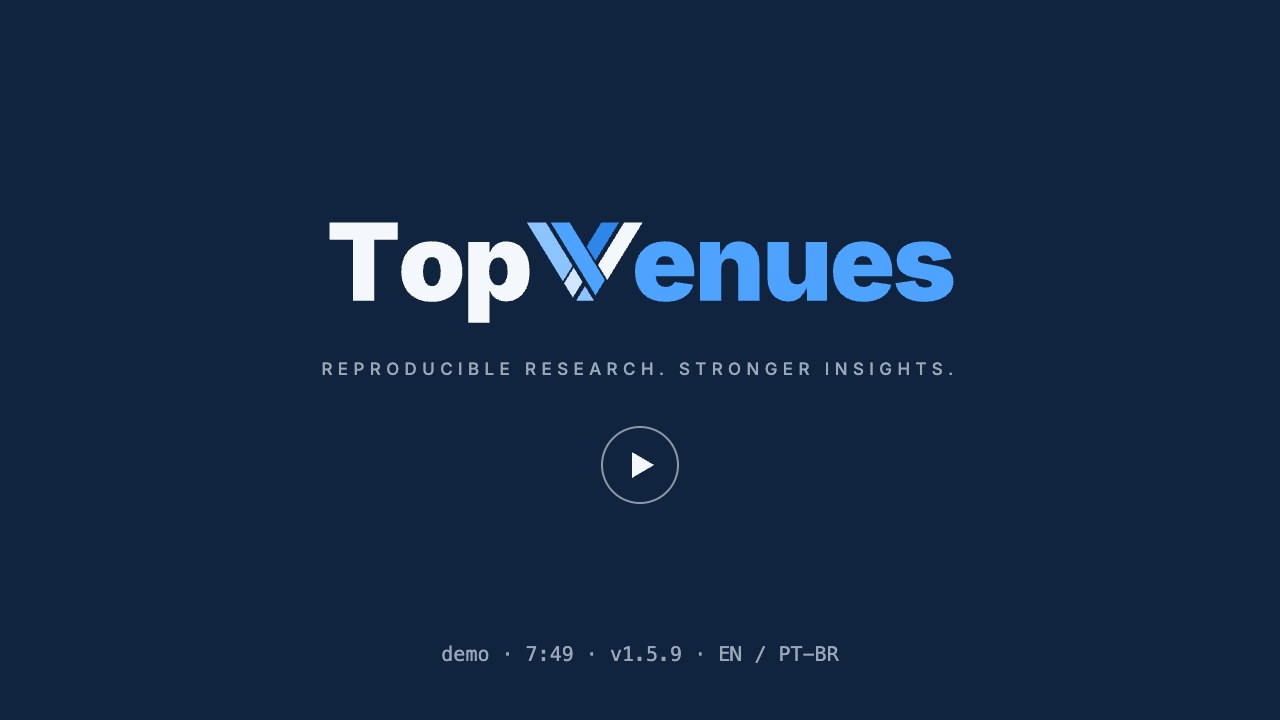
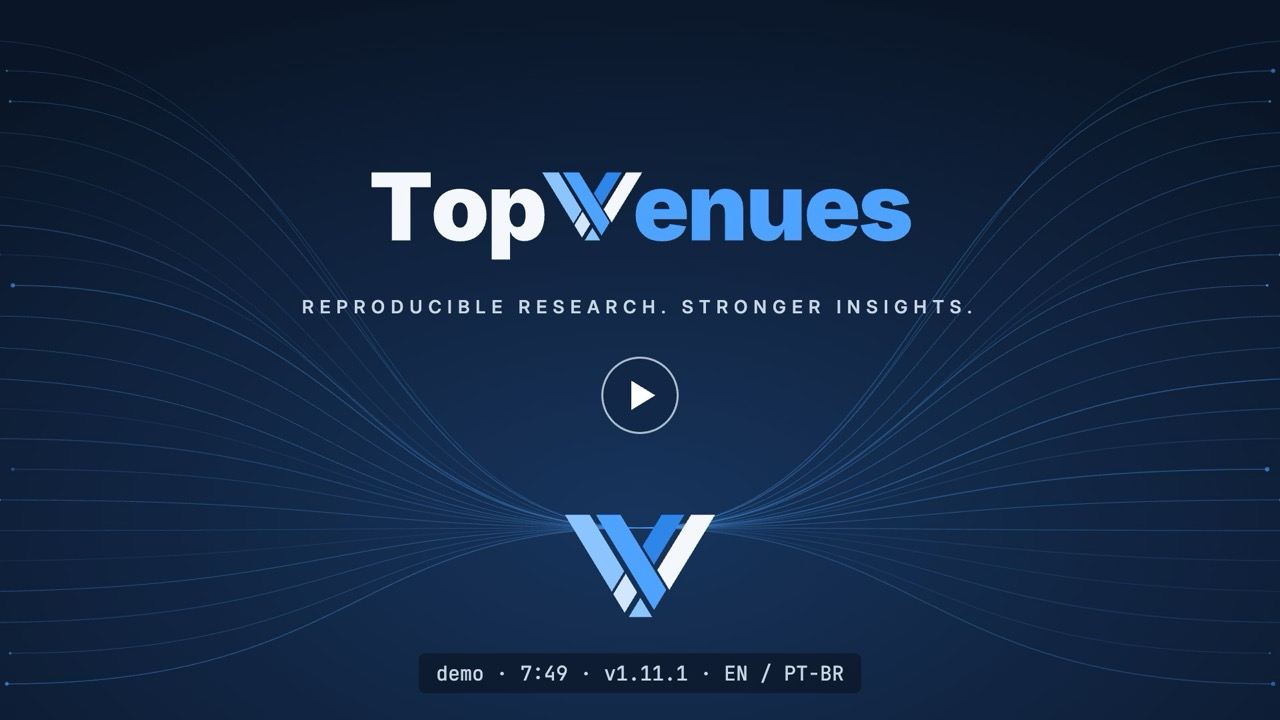
Rebuild from topVenues v1.11.1 (5f16790): demonstration in the new identity

diff --git a/index.html b/index.html
@@ -457,7 +457,7 @@ footer h2 { font-size: .74rem; letter-spacing: .09em; text-transform: uppercase;
    "codeRepository": "https://github.com/sidneibarbieri/topVenues",
    "programmingLanguage": "Python",
    "license": "https://opensource.org/licenses/MIT",
-   "softwareVersion": "1.11.0"
+   "softwareVersion": "1.11.1"
   },
   {
    "@type": "ScholarlyArticle",
@@ -610,7 +610,7 @@ footer h2 { font-size: .74rem; letter-spacing: .09em; text-transform: uppercase;
     <div class="release-head">
       <strong id="release-h"><span data-l="en">Current release</span><span data-l="pt">Versão atual</span></strong>
       <code>security-20-v4</code>
-      <span class="note"><span data-l="en">TopVenues v1.11.0 · snapshot built 2026-08-24 · a maintained corpus, not the denominator of a paper (<a href="#papers">those are frozen</a>).</span><span data-l="pt">TopVenues v1.11.0 · snapshot gerado em 2026-08-24 · um corpus mantido, não o denominador de um artigo (<a href="#papers">esses estão congelados</a>).</span></span>
+      <span class="note"><span data-l="en">TopVenues v1.11.1 · snapshot built 2026-08-24 · a maintained corpus, not the denominator of a paper (<a href="#papers">those are frozen</a>).</span><span data-l="pt">TopVenues v1.11.1 · snapshot gerado em 2026-08-24 · um corpus mantido, não o denominador de um artigo (<a href="#papers">esses estão congelados</a>).</span></span>
     </div>
     <dl class="stats">
       <div><dt><span data-l="en">records</span><span data-l="pt">registros</span></dt><dd><span data-l="en">14,859</span><span data-l="pt">14.859</span></dd></div>
@@ -839,7 +839,7 @@ bash reproduce.sh --profile security-20</code></pre></div></div>
           <div role="tabpanel" id="pane-unix" aria-labelledby="tab-unix">
             <p class="req" data-l="en">Python 3.11–3.14, Git and Bash. No API key, GPU or institutional access.</p>
             <p class="req" data-l="pt">Python 3.11–3.14, Git e Bash. Sem chave de API, GPU ou acesso institucional.</p>
-            <div class="code"><div class="code-bar"><span class="code-label"></span><button class="copy" type="button" data-copy><span data-l="en">Copy</span><span data-l="pt">Copiar</span></button></div><pre><code>git clone --depth 1 --branch v1.11.0 https://github.com/sidneibarbieri/topVenues.git
+            <div class="code"><div class="code-bar"><span class="code-label"></span><button class="copy" type="button" data-copy><span data-l="en">Copy</span><span data-l="pt">Copiar</span></button></div><pre><code>git clone --depth 1 --branch v1.11.1 https://github.com/sidneibarbieri/topVenues.git
 cd topVenues
 bash reproduce.sh --profile security-20-v4</code></pre></div>
             <h3><span data-l="en">Then open the interface</span><span data-l="pt">Depois, abra a interface</span></h3>
@@ -849,7 +849,7 @@ python -m streamlit run web/app.py</code></pre></div>
           <div role="tabpanel" id="pane-win" aria-labelledby="tab-win" hidden>
             <p class="req" data-l="en">Python 3.11–3.14 with the <code>py</code> launcher, Git and PowerShell.</p>
             <p class="req" data-l="pt">Python 3.11–3.14 com o launcher <code>py</code>, Git e PowerShell.</p>
-            <div class="code"><div class="code-bar"><span class="code-label"></span><button class="copy" type="button" data-copy><span data-l="en">Copy</span><span data-l="pt">Copiar</span></button></div><pre><code>git clone --depth 1 --branch v1.11.0 https://github.com/sidneibarbieri/topVenues.git
+            <div class="code"><div class="code-bar"><span class="code-label"></span><button class="copy" type="button" data-copy><span data-l="en">Copy</span><span data-l="pt">Copiar</span></button></div><pre><code>git clone --depth 1 --branch v1.11.1 https://github.com/sidneibarbieri/topVenues.git
 cd topVenues
 powershell -ExecutionPolicy Bypass -File .\reproduce.ps1 -Profile security-20-v4</code></pre></div>
             <h3><span data-l="en">Then open the interface</span><span data-l="pt">Depois, abra a interface</span></h3>
@@ -878,13 +878,13 @@ security = corpus.filter(lambda paper: paper[&quot;area&quot;] == &quot;security
     <p class="sec-label"><span class="no">06</span><span data-l="en">Demo</span><span data-l="pt">Demo</span></p>
     <div>
       <h2 id="demo-h"><span data-l="en">The tool end to end, in under eight minutes.</span><span data-l="pt">A ferramenta de ponta a ponta, em menos de oito minutos.</span></h2>
-      <p class="sec-intro" data-l="en">Installation and offline verification, search and export, the Insights page and the audit evidence. Narration in English, captions in English and Brazilian Portuguese. Recorded with v1.5.9, before the current visual identity.</p>
-      <p class="sec-intro" data-l="pt">Instalação e verificação offline, busca e exportação, a página Insights e as evidências de auditoria. Narração em inglês, legendas em inglês e português do Brasil. Gravado com a v1.5.9, antes da identidade visual atual.</p>
+      <p class="sec-intro" data-l="en">Installation and offline verification, search and export, the Insights page and the audit evidence. Narration in English, captions in English and Brazilian Portuguese. Recorded with v1.11.1, in the current visual identity.</p>
+      <p class="sec-intro" data-l="pt">Instalação e verificação offline, busca e exportação, a página Insights e as evidências de auditoria. Narração em inglês, legendas em inglês e português do Brasil. Gravado com a v1.11.1, na identidade visual atual.</p>
       <div class="video">
         <video controls preload="none" playsinline crossorigin="anonymous" poster="assets/demo-poster.jpg" width="1280" height="720">
-          <source src="https://huggingface.co/datasets/sidneibarbieri/topvenues/resolve/main/assets/demo/topvenues-demo-v1.5.9.mp4" type="video/mp4">
-          <track kind="captions" src="https://huggingface.co/datasets/sidneibarbieri/topvenues/resolve/main/assets/demo/topvenues-demo-v1.5.9.en.vtt" srclang="en" label="English" data-track="en">
-          <track kind="captions" src="https://huggingface.co/datasets/sidneibarbieri/topvenues/resolve/main/assets/demo/topvenues-demo-v1.5.9.pt-BR.vtt" srclang="pt-BR" label="Português (Brasil)" data-track="pt">
+          <source src="https://huggingface.co/datasets/sidneibarbieri/topvenues/resolve/main/assets/demo/topvenues-demo-v1.11.1.mp4" type="video/mp4">
+          <track kind="captions" src="https://huggingface.co/datasets/sidneibarbieri/topvenues/resolve/main/assets/demo/topvenues-demo-v1.11.1.en.vtt" srclang="en" label="English" data-track="en">
+          <track kind="captions" src="https://huggingface.co/datasets/sidneibarbieri/topvenues/resolve/main/assets/demo/topvenues-demo-v1.11.1.pt-BR.vtt" srclang="pt-BR" label="Português (Brasil)" data-track="pt">
         </video>
       </div>
     </div>
@@ -958,7 +958,7 @@ security = corpus.filter(lambda paper: paper[&quot;area&quot;] == &quot;security
       <p data-l="en">Code MIT · Inter typeface, SIL Open Font License.</p>
       <p data-l="pt">Código MIT · fonte Inter, SIL Open Font License.</p>
     </div>
-    <p class="stamp"><span data-l="en">Built from</span><span data-l="pt">Gerado a partir de</span> security-20-v4 · v1.11.0 · 4480bff · 2026-09-21</p>
+    <p class="stamp"><span data-l="en">Built from</span><span data-l="pt">Gerado a partir de</span> security-20-v4 · v1.11.1 · 5f16790 · 2026-09-21</p>
   </div>
 </footer>
 
